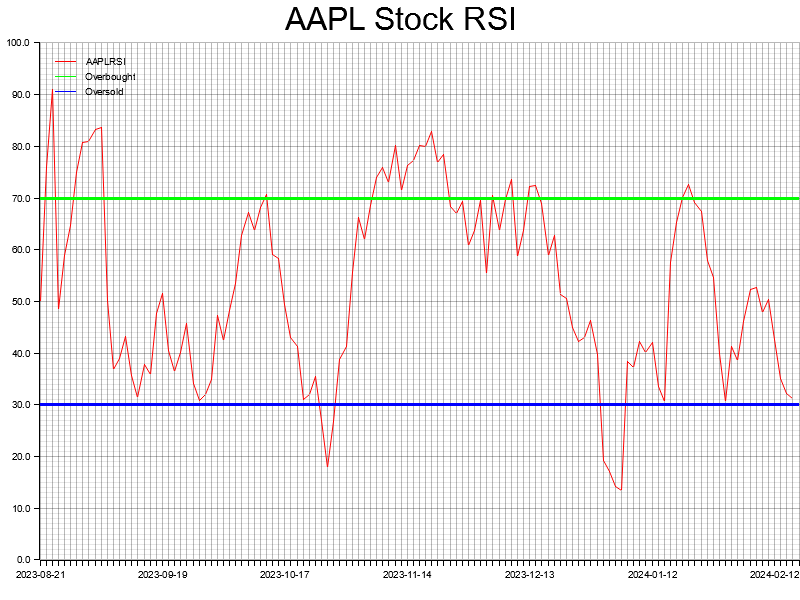
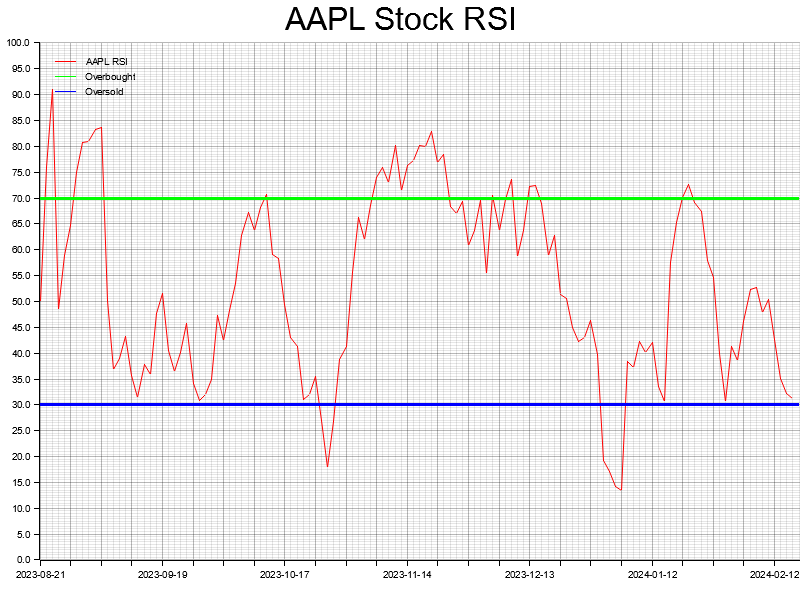
grid adjustment

Changed region(s): [[0.0, 0.06, 1.0, 0.93]]

diff --git a/src/main.rs b/src/main.rs
@@ -59,7 +59,7 @@ fn plot_rsi(ticker: &str, quotes: &[yahoo::Quote], dates: &[String]) -> Result<(
     let mut rsi = RelativeStrengthIndex::new(14).unwrap();
 
     // calculate the rsi_values
-    let rsi_values: Vec<f64> = closing_prices.iter().map(|&price| {
+    let rsis: Vec<f64> = closing_prices.iter().map(|&price| {
         rsi.next(price)
     }).collect();
 
@@ -72,7 +72,7 @@ fn plot_rsi(ticker: &str, quotes: &[yahoo::Quote], dates: &[String]) -> Result<(
 
     // Set x-axis labels to be the dates
     chart.configure_mesh()
-        .x_labels(dates.len())
+        .x_labels(dates.len()/4)
         .x_label_formatter(&|idx| {
             let labels_count = dates.len();
             let labels_to_display = 6;
@@ -86,11 +86,12 @@ fn plot_rsi(ticker: &str, quotes: &[yahoo::Quote], dates: &[String]) -> Result<(
             }
 
             String::new()
-        }).draw()?;
+        }).y_labels(dates.len()/4)
+        .draw()?;
 
     // draw RSI line
     chart.draw_series(LineSeries::new(
-        rsi_values.iter().enumerate().map(|(i, &rsi)| (i, rsi)),
+        rsis.iter().enumerate().map(|(i, &rsi)| (i, rsi)),
         &RED,
     ))?.label(ticker.to_owned() + " RSI")
         .legend(|(x, y)| PathElement::new(vec![(x, y), (x + 20, y)], &RED));;
@@ -185,7 +186,8 @@ fn plot_quotes(ticker: &str, quotes: &[yahoo::Quote], dates: &[String]) -> Resul
 
     // Set x-axis labels to be the dates
     chart.configure_mesh()
-        .x_labels(dates.len())
+        .x_labels(dates.len()/4)
+        .y_labels(dates.len()/4)
         .x_label_formatter(&|idx| {
             let labels_count = dates.len();
             println!("{}c",labels_count);

diff --git a/README.md b/README.md
@@ -9,6 +9,8 @@ We use yahoo_finance_api to fetch the historical stock data of the input company
 We use time crate to get current time by ***OffsetDateTime*** and get six month by ***Duration***
 #### 4. plotters
 We use plotters to generate the stock data plot
+#### 5. ta
+We use ta to get the RSI data
 
 ## Financial analysis algorithm
 Firstly, we retrieve the stock data for a specific period (6 months) by utilizing the get_quote_history method from the yahoo_finance_api. 
